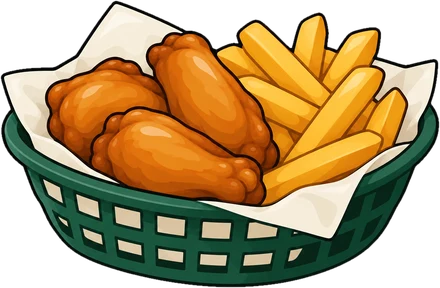
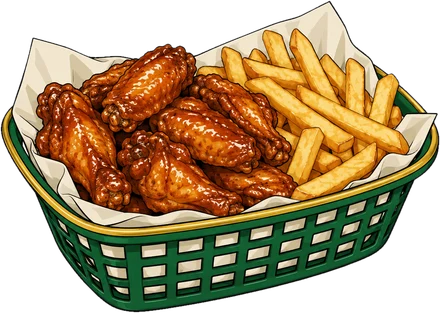
v7 drawings with the detail level of the approved gloves, jersey and finger
Burger, wings, light bulb, pint + clock and title belt redrawn with crisp
interior linework, stitching/trim and two-tone shading like the approved
MMA gloves, jersey, foam finger and beers (Figma section 55:37, pending
approval). v6 sources removed.

diff --git a/components/Decor.tsx b/components/Decor.tsx
@@ -37,11 +37,11 @@ const ASPECT: Record<DecorName, number> = {
   "foam-finger": 248 / 440,
   "mma-gloves": 415 / 440,
   "baseball-bat": 440 / 282,
-  burger: 440 / 405,
-  wings: 440 / 288,
-  "happy-hour": 440 / 399,
-  lightbulb: 261 / 440,
-  "title-belt": 440 / 242,
+  burger: 440 / 386,
+  wings: 440 / 313,
+  "happy-hour": 440 / 417,
+  lightbulb: 196 / 440,
+  "title-belt": 440 / 253,
 };
 
 export interface DecorSpot {
